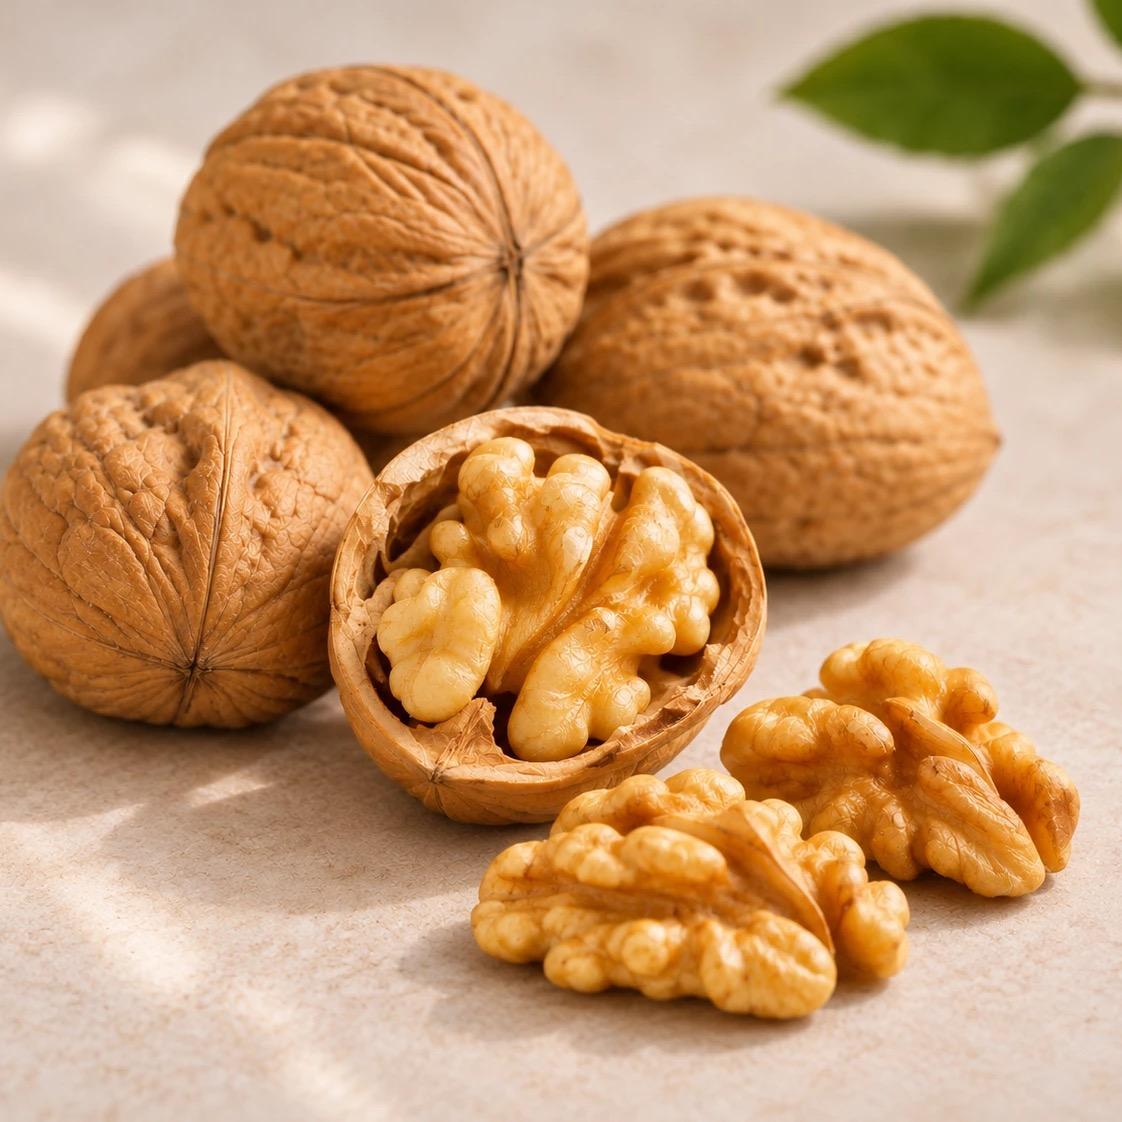
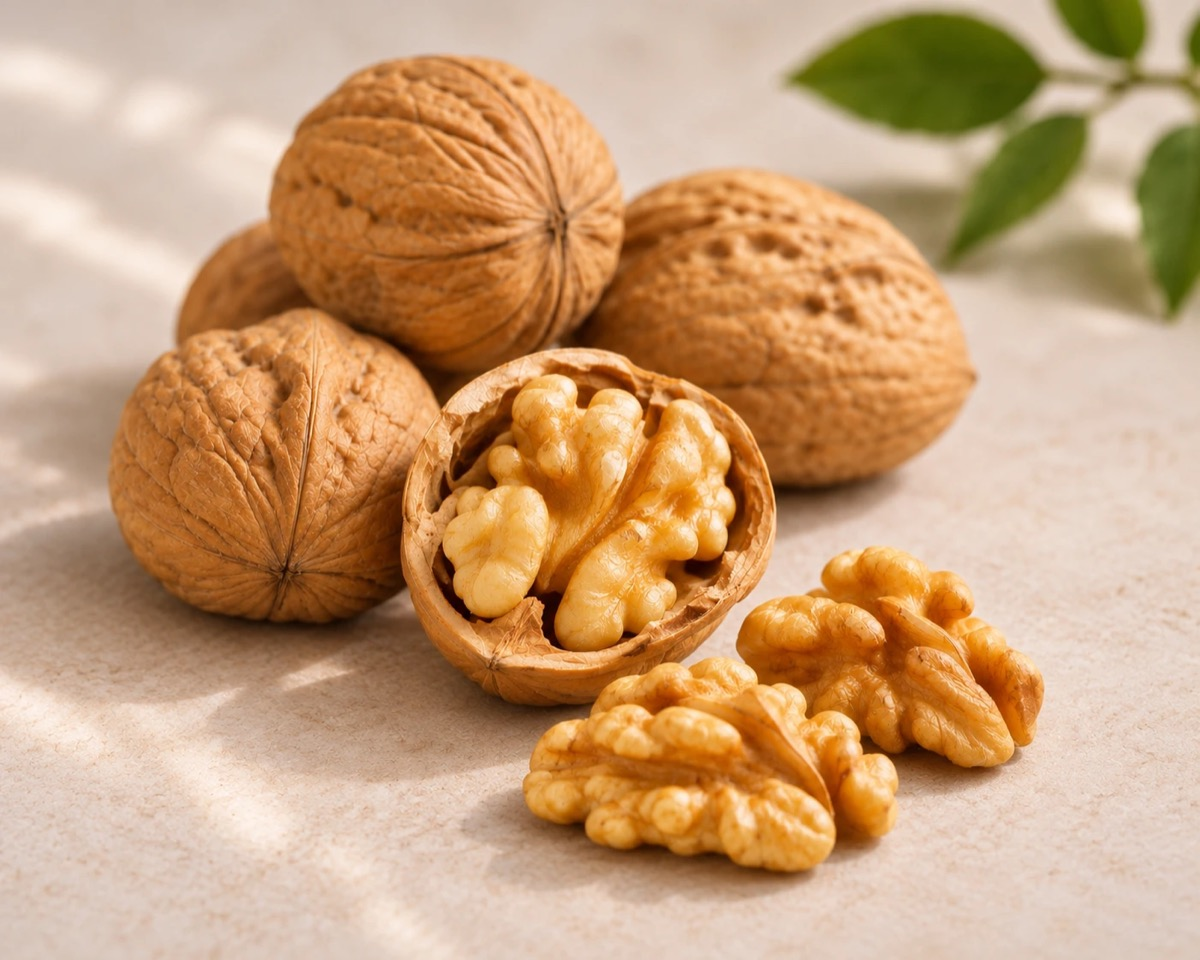
호두 사진을 자르지 않은 원본 비율로 교체, 사진은 자르지 않기로

diff --git a/sw.js b/sw.js
@@ -1,5 +1,5 @@
 // 블루베리 — 오프라인 캐싱용 서비스워커
-const CACHE_NAME = "blueberry-v61";
+const CACHE_NAME = "blueberry-v62";
 const ASSETS = [
   "./",
   "./index.html",

diff --git a/CLAUDE.md b/CLAUDE.md
@@ -71,7 +71,7 @@
 - 분류 목록: 과일 / 채소 / 곡물 / 콩·견과 / 유제품·달걀 / 육류 / 생선·해산물 / 발효식품 / 기타
   (첫 번째 분류가 사진이 없을 때의 배경색을 정한다. 색은 `index.html`의 `CATEGORY_TINT`)
 - `image`·`icon`의 `src`는 상대 경로(예: `images/blueberry.jpg`) 또는 https 주소. 자리에 맞는 게 없으면 다른 하나로 대신하고, 둘 다 없거나 못 불러오면 분류 색 + 첫 글자.
-  사진은 정사각형·가로 1200px 이하 jpg, 아이콘은 배경 투명 png 400px 정도로 줄여서 `images/`에 넣는다.
+  사진은 받은 비율 그대로(자르지 않음) 가로 1200px 이하 jpg, 아이콘은 배경 투명 png 400px 정도로 줄여서 `images/`에 넣는다.
 - 영양성분·두드러지는 영양소를 뺀 섹션은 접히는 카드(`foldSection`): 처음엔 요약만, 누르면 자세히. 참고한 자료는 요약 없이 제목만
 - 상세 화면 섹션 순서와 이름은 고정: 영양성분 / 두드러지는 영양소 / 고르는법 / 보관 팁 / 먹는 법 / 잘 어울리는 음식 / 속설 / 참고한 자료
 
